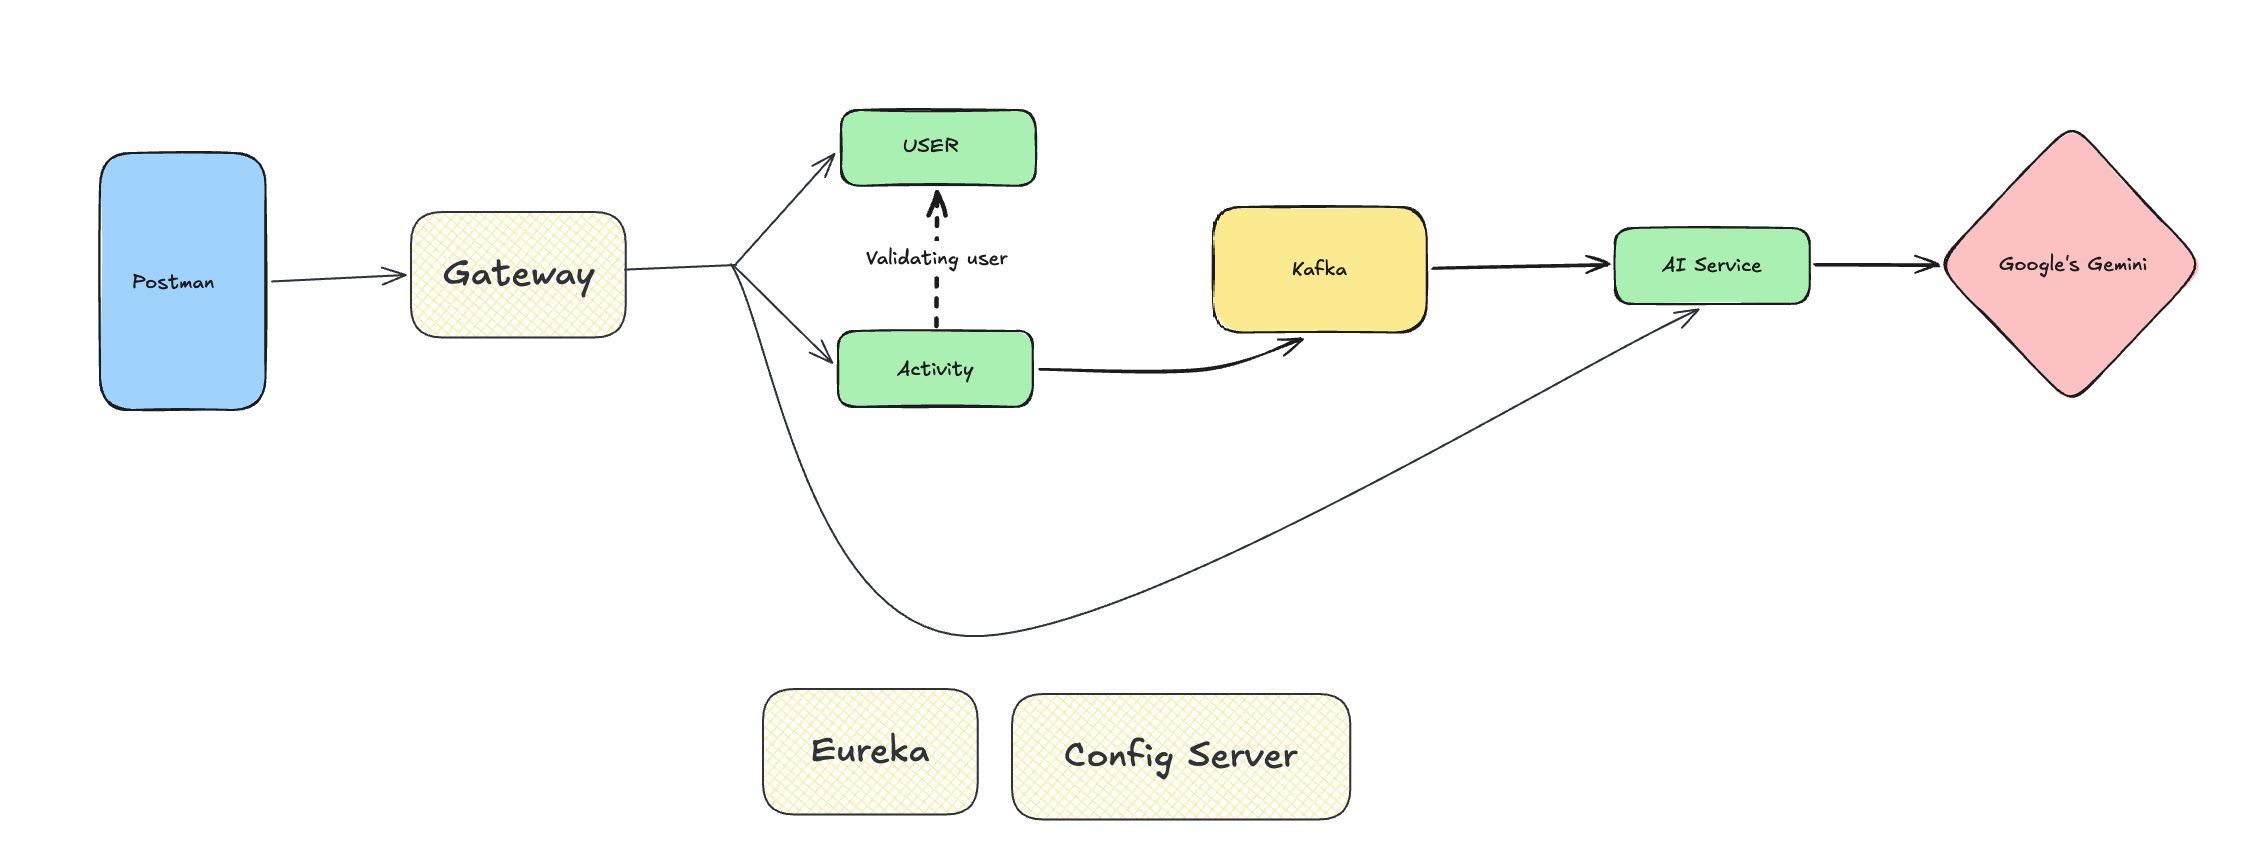
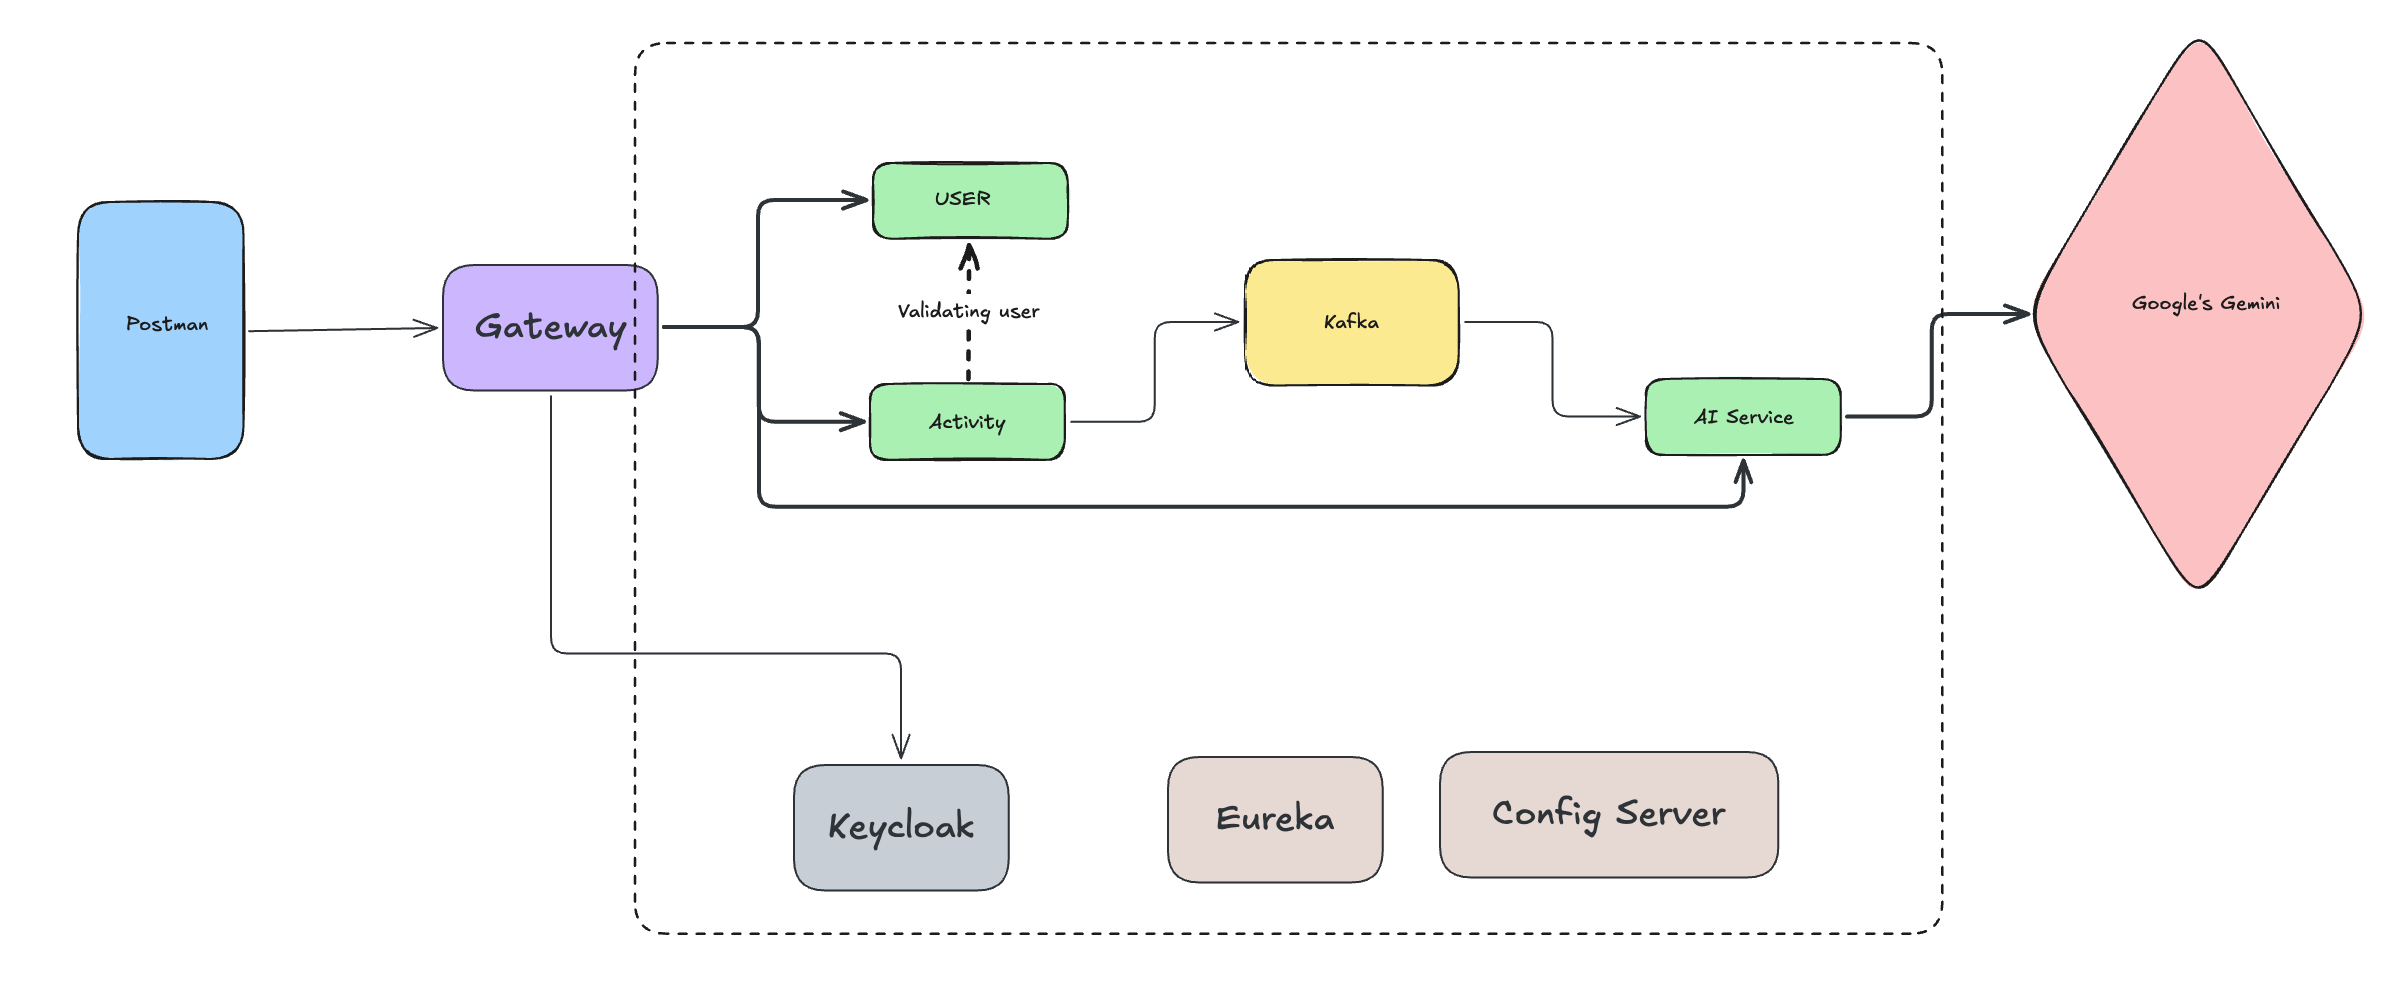
Added configurations in api gateway

diff --git a/Gateway/src/main/java/app/fitness/gateway/component/KeycloakUserSyncFilter.java b/Gateway/src/main/java/app/fitness/gateway/component/KeycloakUserSyncFilter.java
@@ -1,0 +1,96 @@
+package app.fitness.gateway.component;
+
+import app.fitness.gateway.user.dto.RegisterRequest;
+import app.fitness.gateway.user.service.UserService;
+import com.nimbusds.jwt.JWTClaimsSet;
+import com.nimbusds.jwt.SignedJWT;
+import lombok.RequiredArgsConstructor;
+import lombok.extern.slf4j.Slf4j;
+import org.springframework.http.server.reactive.ServerHttpRequest;
+import org.springframework.stereotype.Component;
+import org.springframework.web.server.ServerWebExchange;
+import org.springframework.web.server.WebFilter;
+import org.springframework.web.server.WebFilterChain;
+import reactor.core.publisher.Mono;
+
+import java.text.ParseException;
+
+@Component
+@Slf4j
+@RequiredArgsConstructor
+public class KeycloakUserSyncFilter implements WebFilter {
+
+    private final UserService userService;
+
+    // Mono in reactive programming is like promise.
+    @Override
+    public Mono<Void> filter(ServerWebExchange exchange, WebFilterChain chain) {
+        log.info("Entering KeycloakUserSyncFilter :: filter at {}", System.currentTimeMillis());
+        String keycloakId = exchange
+                .getRequest()
+                .getHeaders()
+                .getFirst("X-User-Id");
+
+        String token = exchange
+                .getRequest()
+                .getHeaders()
+                .getFirst("Authorization");
+
+        RegisterRequest registerRequest = getUserDetails(token);
+
+        if(keycloakId == null) {
+            keycloakId = registerRequest.getKeycloakId();
+        }
+
+        if(keycloakId != null && token != null) {
+            String finalKeycloakId = keycloakId;
+            return userService.validateUser(keycloakId)
+                    .flatMap(exist -> {
+                        if(!exist) {
+                            if(registerRequest != null) {
+                                return userService.registerUser(registerRequest)
+                                        .then(Mono.empty());
+                            } else {
+                                return Mono.empty();
+                            }
+                        } else {
+                            log.info("KeycloakUserSyncFilter :: filter :: user already exists, skipping user sync");
+                            return Mono.empty();
+                        }
+                    })
+                    // defer means running the abpve code fully then its called.
+                    .then(Mono.defer(() -> {
+                        ServerHttpRequest mutatedRequest = exchange.getRequest().mutate()
+                                .header("X-User-Id", finalKeycloakId)
+                                .build();
+                        return chain.filter(exchange.mutate().request(mutatedRequest).build());
+            }));
+        }
+
+        return chain.filter(exchange);
+    }
+
+    private RegisterRequest getUserDetails(String token) {
+        log.info("Entering KeycloakUserSyncFilter :: getUserDetails at {}", System.currentTimeMillis());
+        try{
+            String tokenWithoutBearer = token.replace("Bearer ", "").trim();
+
+            SignedJWT signedJWT = SignedJWT.parse(tokenWithoutBearer);
+            JWTClaimsSet jwtClaimsSet = signedJWT.getJWTClaimsSet();
+
+            RegisterRequest request = new RegisterRequest();
+            request.setEmail(jwtClaimsSet.getStringClaim("email"));
+            request.setFirstName(jwtClaimsSet.getStringClaim("given_name"));
+            request.setLastName(jwtClaimsSet.getStringClaim("family_name"));
+            request.setPassword("password");
+            request.setKeycloakId(jwtClaimsSet.getStringClaim("sub"));
+
+            return request;
+
+        } catch (ParseException e) {
+            throw new RuntimeException(e);
+        } finally {
+            log.info("Exiting KeycloakUserSyncFilter :: getUserDetails at {}", System.currentTimeMillis());
+        }
+    }
+}

diff --git a/Gateway/src/main/java/app/fitness/gateway/user/service/impl/UserServiceImpl.java b/Gateway/src/main/java/app/fitness/gateway/user/service/impl/UserServiceImpl.java
@@ -1,0 +1,64 @@
+package app.fitness.gateway.user.service.impl;
+
+import app.fitness.gateway.user.dto.RegisterRequest;
+import app.fitness.gateway.user.dto.UserResponse;
+import app.fitness.gateway.user.service.UserService;
+import lombok.RequiredArgsConstructor;
+import lombok.extern.slf4j.Slf4j;
+import org.springframework.http.HttpStatus;
+import org.springframework.stereotype.Service;
+import org.springframework.web.reactive.function.client.WebClient;
+import org.springframework.web.reactive.function.client.WebClientResponseException;
+import reactor.core.publisher.Mono;
+
+@Service
+@RequiredArgsConstructor
+@Slf4j
+public class UserServiceImpl implements UserService {
+
+    public final WebClient userServiceWebClient;
+
+    @Override
+    public Mono<Boolean> validateUser(String keyCloakId) {
+        log.info("Entering Gateway :: UserServiceImpl :: validateUser at {}", System.currentTimeMillis());
+        try {
+            return userServiceWebClient.get()
+                    .uri("/api/users/{keycloakId}/validate", keyCloakId)
+                    .retrieve()
+                    .bodyToMono(Boolean.class)
+                    .onErrorResume(WebClientResponseException.class, e -> {
+                        log.error("Downstream API failed for Keycloak ID: {}. Status: {}, Body: {}",
+                                keyCloakId, e.getStatusCode(), e.getResponseBodyAsString());
+                        if(e.getStatusCode() == HttpStatus.NOT_FOUND) {
+                            return Mono.error(new RuntimeException("User not found : " + keyCloakId));
+                        } else if (e.getStatusCode() == HttpStatus.BAD_REQUEST) {
+                            return Mono.error(new RuntimeException("Invalid user id : " + keyCloakId));
+                        }
+                        return Mono.error(new RuntimeException("Unexpected Error : " + keyCloakId));
+                    });
+        } catch (WebClientResponseException e) {
+            log.error("Error occurred while validating user: {}", e.getMessage());
+        } catch (Exception e) {
+            log.error("Unexpected error occurred while validating user: {}", e.getMessage());
+        }
+        return Mono.just(false);
+    }
+
+    @Override
+    public Mono<UserResponse> registerUser(RegisterRequest registerRequest) {
+        log.info("Entering Gateway :: UserServiceImpl :: registerUser at {}", System.currentTimeMillis());
+        log.info("Registering User: {}", registerRequest);
+        return userServiceWebClient.post()
+                .uri("/api/users/register")
+                .bodyValue(registerRequest)
+                .retrieve()
+                .bodyToMono(UserResponse.class)
+                .onErrorResume(WebClientResponseException.class, e -> {
+                    if(e.getStatusCode() == HttpStatus.BAD_REQUEST) {
+                        return Mono.error(new RuntimeException("Invalid registration details: " + e.getMessage()));
+                    }
+                    return Mono.error(new RuntimeException("Unexpected Error during registration: " + e.getMessage()));
+                })
+                .doOnError(e -> log.error("Error occurred while registering user: {}", e.getMessage()));
+    }
+}

diff --git a/userservice/src/main/java/app/fitness/userservice/services/impl/UserServiceImpl.java b/userservice/src/main/java/app/fitness/userservice/services/impl/UserServiceImpl.java
@@ -21,7 +21,16 @@ public class UserServiceImpl implements UserService {
         log.info("Entering inside UserService : register at {}", request);
         log.info("Payload: {}", request);
         if(userRepository.existsByEmail(request.email())) {
-            throw new Exception("User already exists.");
+            User existUser = userRepository.findByEmail(request.email());
+            UserResponse response = new UserResponse();
+            response.setEmail(existUser.getEmail());
+            response.setPassword(existUser.getPassword());
+            response.setLastName(existUser.getLastName());
+            response.setFirstName(existUser.getFirstName());
+            response.setId(existUser.getId());
+            response.setKeycloakId(existUser.getKeycloakId());
+            response.setCreatedAt(existUser.getCreatedAt());
+            return response;
         }
 
         User user = new User();
@@ -29,14 +38,16 @@ public class UserServiceImpl implements UserService {
         user.setPassword(request.password());
         user.setFirstName(request.firstName());
         user.setLastName(request.lastName());
+        user.setKeycloakId(request.keycloakId());
 
         User savedUser = userRepository.save(user);
         UserResponse response = new UserResponse();
         response.setEmail(savedUser.getEmail());
         response.setPassword(savedUser.getPassword());
-        response.setLastName(user.getLastName());
-        response.setFirstName(user.getFirstName());
+        response.setLastName(savedUser.getLastName());
+        response.setFirstName(savedUser.getFirstName());
         response.setId(savedUser.getId());
+        response.setKeycloakId(savedUser.getKeycloakId());
         response.setCreatedAt(savedUser.getCreatedAt());
         return response;
     }
@@ -45,23 +56,27 @@ public class UserServiceImpl implements UserService {
     public UserResponse getUserProfile(String email) throws Exception {
         log.info("Entering UserService : getUserProfile at {}", email);
         log.info("Payload: {}", email);
-        User user = userRepository.findByEmail(email)
-                .orElseThrow(() -> new Exception("User does not exist."));
+        User user = userRepository.findByEmail(email);
+        if(user == null) {
+            throw new Exception("User not found");
+        }
+
         UserResponse response = new UserResponse();
         response.setEmail(user.getEmail());
         response.setPassword(user.getPassword());
         response.setLastName(user.getLastName());
         response.setFirstName(user.getFirstName());
         response.setId(user.getId());
+        response.setKeycloakId(user.getKeycloakId());
         response.setCreatedAt(user.getCreatedAt());
 
         return response;
     }
 
     @Override
-    public Boolean existsByUserId(String userId) {
-        log.info("Entering UserService : existsByUserId at {}", userId);
-        log.info("Payload: {}", userId);
-        return userRepository.existsById(userId);
+    public Boolean existsByUserId(String keycloakId) {
+        log.info("Entering UserService : existsByUserId at {}", keycloakId);
+        log.info("Payload: {}", keycloakId);
+        return userRepository.existsByKeycloakId(keycloakId);
     }
 }

diff --git a/Gateway/src/main/java/app/fitness/gateway/user/config/WebClientConfig.java b/Gateway/src/main/java/app/fitness/gateway/user/config/WebClientConfig.java
@@ -1,0 +1,27 @@
+package app.fitness.gateway.user.config;
+
+import lombok.extern.slf4j.Slf4j;
+import org.springframework.cloud.client.loadbalancer.LoadBalanced;
+import org.springframework.context.annotation.Bean;
+import org.springframework.context.annotation.Configuration;
+import org.springframework.web.reactive.function.client.WebClient;
+
+@Configuration
+@Slf4j
+public class WebClientConfig {
+
+    @Bean
+    @LoadBalanced
+    // load balanced is used to call from service not from url
+    public WebClient.Builder webClientBuilder() {
+        log.info("Inside WebClientConfig :: webClientBuilder at {}", System.currentTimeMillis());
+        return WebClient.builder();
+    }
+
+    @Bean
+    public WebClient userServiceWebClient(WebClient.Builder webClientBuilder) {
+        log.info("Inside WebClientConfig :: userServicwebClient at {}", System.currentTimeMillis());
+        return webClientBuilder.baseUrl("http://USER-SERVICE")
+                .build();
+    }
+}

diff --git a/Gateway/src/main/java/app/fitness/gateway/user/dto/RegisterRequest.java b/Gateway/src/main/java/app/fitness/gateway/user/dto/RegisterRequest.java
@@ -1,0 +1,24 @@
+package app.fitness.gateway.user.dto;
+
+import jakarta.validation.constraints.Email;
+import jakarta.validation.constraints.NotBlank;
+import lombok.AllArgsConstructor;
+import lombok.Data;
+import lombok.NoArgsConstructor;
+
+@Data
+@NoArgsConstructor
+@AllArgsConstructor
+public class RegisterRequest {
+
+        @NotBlank(message = "Email is required")
+        @Email(message = "Invalid email format")
+        private String email;
+
+        @NotBlank(message = "Password is required")
+        private String password;
+
+        private String firstName;
+        private String lastName;
+        private String keycloakId;
+}

diff --git a/Gateway/src/main/java/app/fitness/gateway/config/SecurityConfig.java b/Gateway/src/main/java/app/fitness/gateway/config/SecurityConfig.java
@@ -1,0 +1,22 @@
+package app.fitness.gateway.config;
+
+import org.springframework.context.annotation.Bean;
+import org.springframework.context.annotation.Configuration;
+import org.springframework.security.config.Customizer;
+import org.springframework.security.config.annotation.web.reactive.EnableWebFluxSecurity;
+import org.springframework.security.config.web.server.ServerHttpSecurity;
+import org.springframework.security.web.server.SecurityWebFilterChain;
+
+@Configuration
+@EnableWebFluxSecurity
+public class SecurityConfig {
+
+    @Bean
+    public SecurityWebFilterChain springSecurityFilterChain(ServerHttpSecurity http) {
+        return http
+                .csrf(ServerHttpSecurity.CsrfSpec::disable)
+                .authorizeExchange(authorizeExchangeSpec -> authorizeExchangeSpec.anyExchange().authenticated())
+                .oauth2ResourceServer(oauth2 -> oauth2.jwt(Customizer.withDefaults()))
+                .build();
+    }
+}

diff --git a/Gateway/src/main/java/app/fitness/gateway/user/dto/UserResponse.java b/Gateway/src/main/java/app/fitness/gateway/user/dto/UserResponse.java
@@ -1,0 +1,16 @@
+package app.fitness.gateway.user.dto;
+
+import lombok.Data;
+
+import java.time.LocalDateTime;
+
+@Data
+public class UserResponse {
+    private String id;
+    private String email;
+    private String password;
+    private String firstName;
+    private String lastName;
+    private LocalDateTime createdAt;
+    private String keycloakId;
+}

diff --git a/Gateway/src/main/java/app/fitness/gateway/user/service/UserService.java b/Gateway/src/main/java/app/fitness/gateway/user/service/UserService.java
@@ -1,0 +1,10 @@
+package app.fitness.gateway.user.service;
+
+import app.fitness.gateway.user.dto.RegisterRequest;
+import app.fitness.gateway.user.dto.UserResponse;
+import reactor.core.publisher.Mono;
+
+public interface UserService {
+    Mono<Boolean> validateUser(String userId);
+    Mono<UserResponse> registerUser(RegisterRequest registerRequest);
+}

diff --git a/userservice/src/main/java/app/fitness/userservice/controller/UserController.java b/userservice/src/main/java/app/fitness/userservice/controller/UserController.java
@@ -7,6 +7,7 @@ import lombok.extern.slf4j.Slf4j;
 import org.springframework.beans.factory.annotation.Autowired;
 import org.springframework.http.ResponseEntity;
 import org.springframework.web.bind.annotation.*;
+import reactor.core.publisher.Mono;
 
 @RestController
 @RequestMapping("/api/users")
@@ -38,11 +39,11 @@ public class UserController {
         }
     }
 
-    @GetMapping("/{userId}/validate")
-    public ResponseEntity<Boolean> validateUserId(@PathVariable String userId) {
+    @GetMapping("/{keycloakId}/validate")
+    public boolean validateUserId(@PathVariable String keycloakId) {
         log.info("Entering UserController :: validateUserId at {}", System.currentTimeMillis());
-        log.info("Payload: {}", userId);
-        return ResponseEntity.ok(userService.existsByUserId(userId));
+        log.info("Payload: {}", keycloakId);
+        return userService.existsByUserId(keycloakId);
     }
 
 }

diff --git a/userservice/src/main/java/app/fitness/userservice/entity/User.java b/userservice/src/main/java/app/fitness/userservice/entity/User.java
@@ -8,7 +8,7 @@ import org.hibernate.annotations.UpdateTimestamp;
 import java.time.LocalDateTime;
 
 @Entity
-@Table(name = "users")
+@Table(schema = "fitness", name = "users")
 @Data
 public class User {
     @Id
@@ -32,4 +32,6 @@ public class User {
 
     @UpdateTimestamp
     private LocalDateTime updatedAt;
+
+    private String keycloakId;
 }

diff --git a/userservice/src/main/java/app/fitness/userservice/dto/RegisterRequest.java b/userservice/src/main/java/app/fitness/userservice/dto/RegisterRequest.java
@@ -11,5 +11,6 @@ public record RegisterRequest(
         @NotBlank(message = "Password is required")
         String password,
         String firstName,
-        String lastName
+        String lastName,
+        String keycloakId
 ) {}

diff --git a/userservice/src/main/java/app/fitness/userservice/repository/UserRepository.java b/userservice/src/main/java/app/fitness/userservice/repository/UserRepository.java
@@ -9,5 +9,6 @@ import java.util.Optional;
 @Repository
 public interface UserRepository extends JpaRepository<User, String> {
     Boolean existsByEmail(String email);
-    Optional<User> findByEmail(String email);
+    Boolean existsByKeycloakId(String keycloakId);
+    User findByEmail(String email);
 }